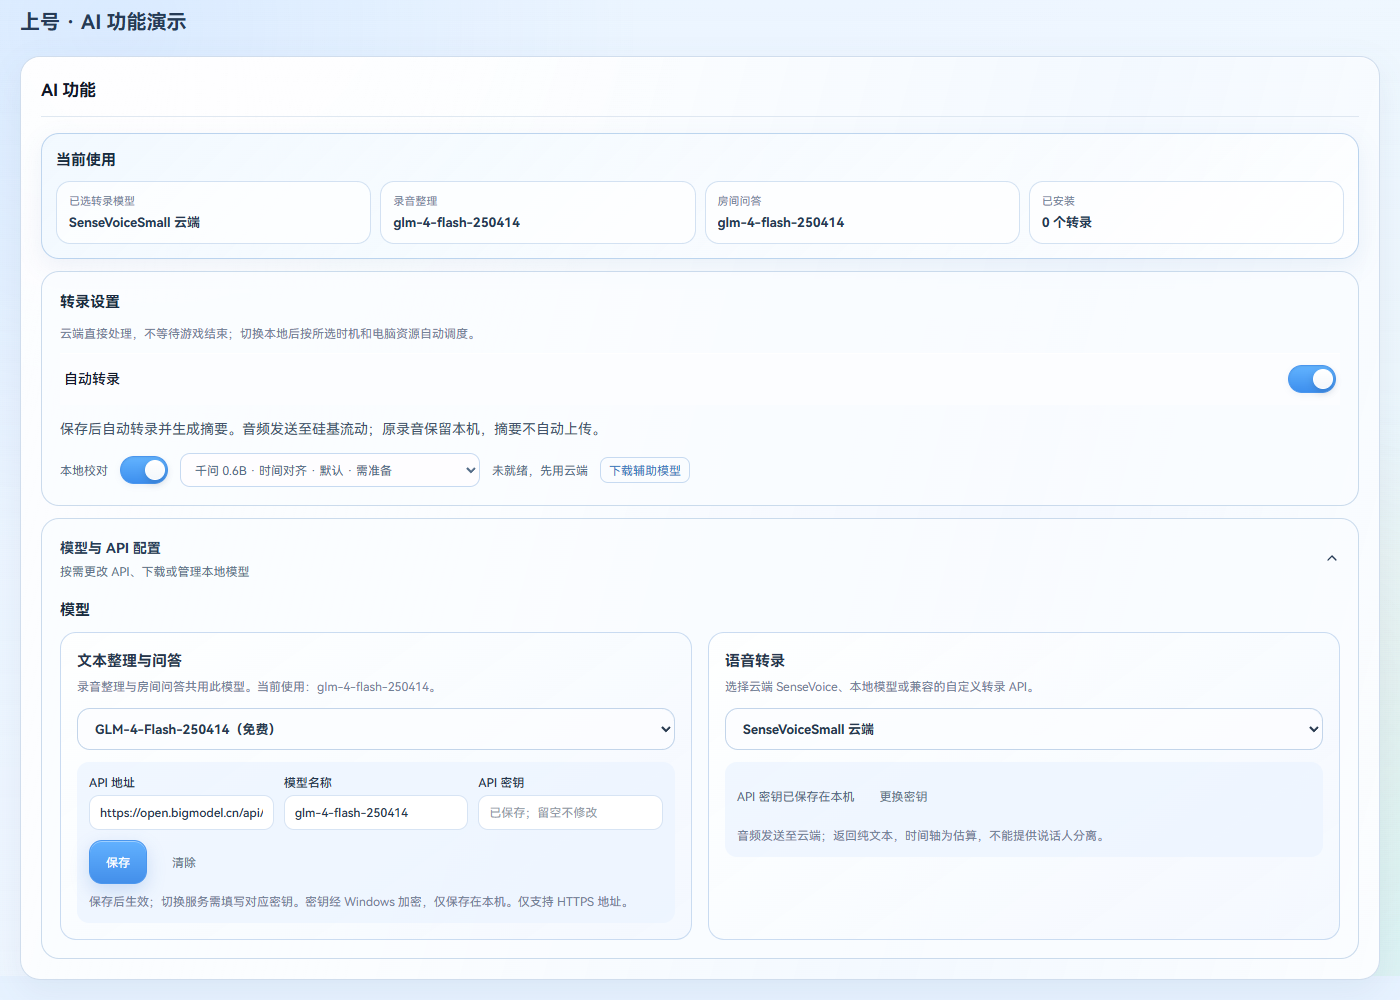
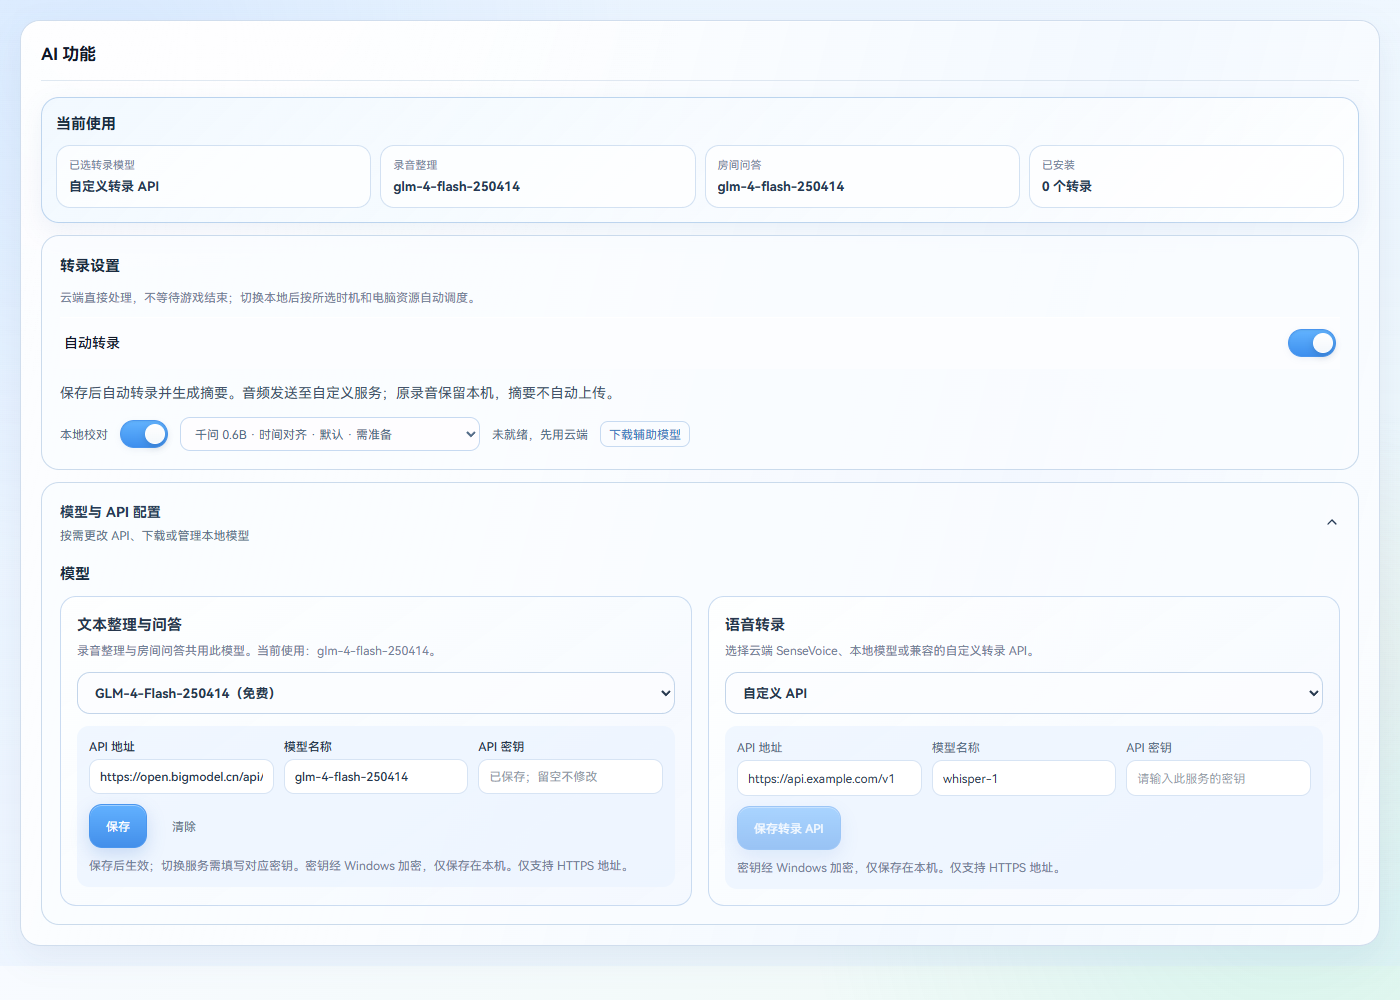
docs: record verified 3.4.13 publication and activate website download [skip ci]

diff --git a/docs/release-verification-v3.4.13.md b/docs/release-verification-v3.4.13.md
@@ -1,6 +1,19 @@
 # 上号 v3.4.13 发布核对
 
-2026-10-25 用户已重新授权恢复开源，并在完成本地验证后按桌面流程发布。GitHub 与 CloudBase `release.json` 实查均为 3.4.12；本次目标 3.4.13，构建号 2026.10.25.1。原仓库已恢复公开，发布与官网激活尚需分别完成。下文早期验证作为历史保留，本段和新增最终核对优先。
+2026-10-25 已按用户最新授权恢复开源并完成 3.4.13 发布，构建号 2026.10.25.1。发布前 GitHub 与 CloudBase 同为 3.4.12；发布后两处均已核验为 3.4.13。下文早期验证作为历史保留，最终发布结果优先。
+
+## 最终发布结果
+
+- 产品提交 `c0f776a9c6cb6c834fb9dd4e8cf7b43a6338a63b`，正式标签 `v3.4.13`，发布后未移动标签。后续说明、演示截图补充和网站清单作为文档提交保存，不替换程序资产。
+- [Windows/Linux CI](https://github.com/soberbw-hash/shanghao/actions/runs/40170465783)、[CodeQL](https://github.com/soberbw-hash/shanghao/actions/runs/40170465814) 与 [正式 Windows 构建发布](https://github.com/soberbw-hash/shanghao/actions/runs/40170854942) 均成功。正式完整 smoke 1497 项：1492 通过、5 跳过、0 失败；迁移、N-1、手机麦克风、Runtime、AudioWorklet、屏幕捕获、五人音频和实际媒体恢复均通过。
+- [GitHub Release](https://github.com/soberbw-hash/shanghao/releases/tag/v3.4.13) 共 20 项资产，包含安装器、ZIP、更新元数据、blockmap、体积报告、校验文件和 14 张干净实际组件截图。补充自定义转录配置截图，避免与默认模型配置重复。
[2 lines of base64/hex data omitted]
+- 服务器在零通话时升级到同一产品提交，健康检查 3.4.13 / 2026.10.25.1、账号和 TURN 正常；原持久数据备份至 `/root/shanghao/.codex-backups/room-isolation-EPZtA00s`。旧十分钟更新 cron 继续停用，未恢复反复重启行为。
+- 原源码仓库已恢复公开的 `soberbw-hash/shanghao`，源码与下载统一；临时下载站说明已改为指向原仓库并只读归档，历史资产保留。发布前后均核对仓库 ID，未创建空仓覆盖历史。
+- 桌面和开始菜单的开发版快捷方式目标、图标均存在，使用内嵌 PowerShell 启动，不引用缺失 VBS。稳定入口为 `%LOCALAPPDATA%/Programs/ShangHaoDev/launch-dev.cmd`，另有 `launch-dev-admin.cmd`；未强制重启用户正在运行的窗口。
+
+**真实设备边界：** LOL 管理员／独占全屏按键、完整对局状态切换、真实朋友跨网络长通话听感和旧客户端点击安装升级尚未完成现场验收。只读 LOL 探针在普通权限下未取得管理员客户端 API；不把本机 TLS／WebSocket 测试当作游戏实测。未替用户自动安装新版本，也未恢复独立审核。
 
 ## 10 月 25 日最终候选核对
 

diff --git a/docs/CURRENT_ROUND.md b/docs/CURRENT_ROUND.md
@@ -1,4 +1,6 @@
-# ShangHao 3.4.13 当前开发与发布准备
+# ShangHao 3.4.13 当前发布状态
+
+2026-10-25 已按用户最新授权完成发布。正式标签 `v3.4.13` 指向产品提交 `c0f776a9c6cb6c834fb9dd4e8cf7b43a6338a63b`；Windows/Linux CI、CodeQL 和正式 Release 工作流成功。GitHub 与 CloudBase 官网均为 3.4.13，官网完整安装包下载与 GitHub 的 SHA-256 相同，旧版下载仍返回 HTTP 200；服务器为 3.4.13 / 2026.10.25.1，账号和 TURN 健康。详细资产、校验及未验证边界见[发布核对](release-verification-v3.4.13.md)。以下为历史进度；旧暂停发布要求已被最新授权替代，独立审核仍保持暂停。
 
 2026-10-25 最新：原源码仓库 ID 1207314298 已恢复为公开的 `soberbw-hash/shanghao`，匿名 API 实查 HTTP 200；临时下载仓库 ID 1427201349 保留为 `shanghao-downloads`。许可、完整 README 与本地 origin 已同步恢复，见[恢复记录](source-restoration-2026-10-25.md)。新增 LOL 房间人数、模式与真实引擎计时通过本机 TLS 和真实 WebSocket 隔离测试；本机客户端权限较高，普通权限只读探针未取得 LCU，保留管理员及对局实测边界。整合 1492 通过、5 跳过、0 失败，五人音频／媒体通过，六包类型、Lint、构建通过；本版实际组件截图已生成。下文为历史记录，旧“暂停发布／融合未完成”等表述不代表当前状态，正式发布进度以本版发布核对为准。
 

diff --git a/docs/source-restoration-2026-10-25.md b/docs/source-restoration-2026-10-25.md
@@ -3,7 +3,7 @@
 用户于 2026-10-25 明确要求重新开源、完成本地验证后按桌面规范发布，并确认恢复原地址、源码和下载统一。此决定替代 10 月 20 日的源码私有化要求。
 
 - 原源码仓库 ID `1207314298` 从 `shanghao-source` 恢复为 `soberbw-hash/shanghao`，保留提交、分支、标签和历史 Release。
-- 临时下载仓库 ID `1427201349` 改名 `soberbw-hash/shanghao-downloads`，保留为存档，不删除下载资产。
+- 临时下载仓库 ID `1427201349` 改名 `soberbw-hash/shanghao-downloads`，说明已改为指向恢复开源的原仓库并只读归档，不删除下载资产。
 - GitHub API 已确认原源码仓库 `visibility=public`，匿名访问返回 HTTP 200、相同仓库 ID；本地 origin 同步恢复原地址。
 - 恢复原有 AGPL-3.0-or-later，README 和 NOTICE 的源码地址同步更新，第三方资源及历史许可保留。
 - 公开前检查 6939 个历史文件版本和当前 2830 个文件，未发现所查高置信度凭据模式；未将本机密钥、用户设置、真实录音或诊断日志加入源码。

diff --git a/docs/release-history-audit.md b/docs/release-history-audit.md
@@ -1,7 +1,8 @@
 # 上号版本历史证据审计
 
-本表用于维护设置页的离线更新历史。历史只写可以由 Git tag、GitHub Release、CHANGELOG
-或正式版本提交核验的内容。v2.6.1 当前只是本地候选版本，没有 tag、Release 或安装包。
+本表保留 2026 年 8 月的早期历史审计，不能用其中“候选”状态判断当前版本。最新正式版为
+3.4.13，见 [3.4.13 发布核对](release-verification-v3.4.13.md)；设置页离线历史已包含对应条目。
+历史只写可以由 Git tag、GitHub Release、CHANGELOG 或正式提交核验的内容。
 
 ## 统计
 
